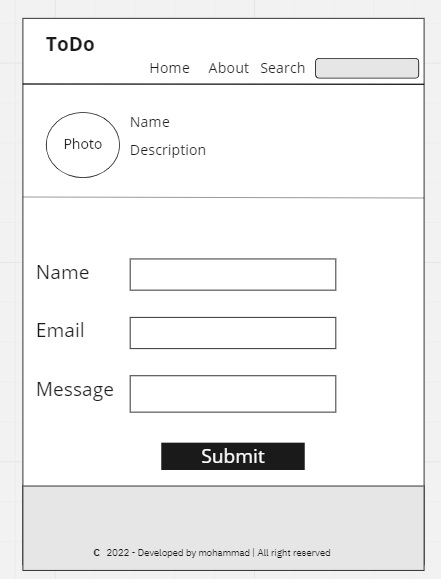
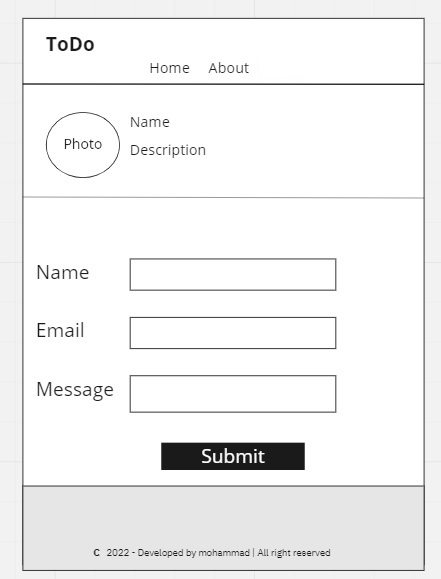
Add css files

Changed region(s): [[0.5896, 0.0933, 0.9728, 0.1554]]

diff --git a/about.html b/about.html
@@ -5,46 +5,45 @@
         <meta charset="UTF-8">
         <meta http-equiv="X-UA-Compatible" content="IE=edge">
         <meta name="viewport" content="width=device-width, initial-scale=1.0">
+        <link rel="stylesheet" href="style/about.css">
         <title>ToDo</title>
     </head>
 
     <body>
-        <header>
-            <h1>ToDo</h1>
+        <header class="abouth">
+            <img class="icon" src="assets/icon.jpg" alt="ToDo icon">
             <nav>
                 <a href="index.html">Home</a>
                 <a href="about.html">About</a>
-                <form action="">
-                    <label for="">Search</label>
-                    <input type="text" name="" id="">
-                    <input type="button" value="search">
-                </form>
             </nav>
         </header>
-        <main>
-            <img src="https://media.istockphoto.com/vectors/user-profile-icon-vector-avatar-portrait-symbol-flat-shape-person-vector-id1270368615?k=20&m=1270368615&s=170667a&w=0&h=qpvA8Z6L164ZcKfIyOl-E8fKnfmRZ09Tks7WEoiLawA="
-                alt="profile photo" width="50px" height="50px">
-            <h5>Mohammad</h5>
-            <p>I made this website to save all my tasks</p>
-            <br>
-            <form action="">
-                <label for="">Name</label>
-                <input type="text" name="" id="">
-                <br>
-                <br>
-                <label for="">Email</label>
-                <input type="email" name="" id="">
-                <br>
-                <br>
-                <label for="">Message</label>
-                <input type="text" name="" id="">
-                <br>
-                <br>
-                <input type="submit" value="Submit">
-            </form>
+        <main class="aboutm">
+            <div class="profilearea">
+                <img id="profile" src="assets/profile.png" alt="">
+                <div class="info">
+                    <p id="name">Mohammad</p>
+                    <p id="des">I made this website to save all my tasks</p>
+                </div>
+            </div>
+            <div class="contact">
+            <p id="cont">Contact me</p>
+                <form action="" >
+                    <label for="">Name</label>
+                    <input type="text" name="" id="">
+                    
+                    <label for="">Email</label>
+                    <input type="email" name="" id="">
+                    
+                    <label for="">Message</label>
+                    <textarea name="" id="textarea" cols="30" rows="10"></textarea>
+                    <label for=""></label>
+                    <input type="submit" value="Submit">
+                </form>
+            </div>
+            
         </main>
-        <footer>
-            <h6>C 2022 - Developed by mohammad | All right reserved</h6>
+        <footer class="aboutf">
+            <p>&copy; 2022 - Developed by mohammad | All right reserved</p>
         </footer>
     </body>
 

diff --git a/style/about.css b/style/about.css
@@ -1,0 +1,104 @@
+@import url('https://fonts.googleapis.com/css2?family=Roboto&display=swap');
+@import url('https://fonts.googleapis.com/css2?family=Roboto+Condensed:wght@300&display=swap');
+
+body{
+    margin: 0px;
+    font-family: 'Roboto', sans-serif;
+}
+.abouth{
+    display: flex;
+    align-items: center;
+    height: 80px;
+    background-color:#323232;
+    justify-content:left;
+}
+.abouth nav a{
+    text-transform: uppercase;
+    font-size: 15px;
+    padding:80px;
+    color: #fff;
+    text-decoration:none;
+}
+.icon{
+    height: 40px;
+    padding: 50px;
+}
+.abouth nav a:hover{
+    color: #323232;
+    background-color: #fff;
+}
+#profile{
+    width: 200px;
+    margin: auto;
+}
+.info {
+    text-align: center;
+}
+.profilearea{
+    display: grid;
+    grid-template-columns: 1fr 80%;
+    padding-top: 50px;
+    gap: 20px;
+}
+.info #name{
+    font-size: 30px;
+    color: red;
+    
+}
+.info #des{
+    border: 1px solid black;
+    padding: 50px;
+    margin: 50px;
+    font-size: 20px;
+    font-weight: bold;
+}
+
+#cont{
+    text-align: center;
+    font-size: 30px;
+    color: red;
+}
+.contact form {
+    display: grid;
+    grid-template-columns: 1fr 80%;
+    margin-left: 20%;
+    margin-right: 20%;
+    padding-bottom: 50px;
+    font-family: 'Roboto Condensed', sans-serif;
+}
+.contact form input {
+  padding: 20px;
+  margin: 20px;
+  font-size: 15px;
+}
+#textarea{
+    padding: 20px;
+    margin: 20px;
+}
+.contact form label{
+    text-align: center;
+    margin: auto;
+    font-weight: bold;
+    font-size: 20px;
+}
+.contact form input[type=submit]{
+   width: 50%;
+   margin: auto;
+   margin-top: 20px;
+   border: none;
+   background-color: #04AA6D; /* Green */
+  border-radius: 8px;
+  color: #fff;
+}
+.contact form input[type=submit]:hover{
+    color:#04AA6D ;
+    background-color: #000;
+   
+}
+.aboutf{
+    height: 70px;
+    text-align: center;
+    padding-top: 25px;
+    background-color:#323232;
+    color: #fff;
+}

diff --git a/index.html b/index.html
@@ -4,23 +4,19 @@
     <meta charset="UTF-8">
     <meta http-equiv="X-UA-Compatible" content="IE=edge">
     <meta name="viewport" content="width=device-width, initial-scale=1.0">
+    <link rel="stylesheet" href="style/index.css">
     <title>ToDO</title>
 </head>
-<body>
-    <header>
-        <h1>ToDo</h1>
+<body class="indexb">
+    <header class="indexh">
+        <img class="icon" src="assets/icon.jpg" alt="ToDo icon">
         <nav>
             <a href="index.html">Home</a>
             <a href="about.html">About</a>
-            <form action="">
-                <label for="">Search</label>
-                <input type="text" name="" id="">
-                <input type="button" value="search">
-            </form>
         </nav>
     </header>
-    <main>
-        <table border="1">
+    <main class="indexm">
+        <table class="ToDoTabl">
             <caption>My ToDo List</caption>
             <tr>
                <th>Tasks</th> 
@@ -28,24 +24,24 @@
             </tr>
             <tr>
                 <td>Play sport</td>
-                <td>Done</td>
+                <td style="color: green;">Done</td>
             </tr>
             <tr>
                 <td>Change oil car</td>
-                <td>Not done</td>
+                <td style="color: red;">Not done</td>
             </tr>
             <tr>
                 <td>Do homework</td>
-                <td>Done</td>
+                <td style="color: green;">Done</td>
             </tr>
             <tr>
                 <td>Shopping</td>
-                <td>Done</td>
+                <td style="color: red;">Not Done</td>
             </tr>
         </table>
     </main>
-    <footer>
-        <h6>C   2022 - Developed by mohammad | All right reserved</h6>
+    <footer class="indexf">
+        <p> &copy 2022 - Developed by mohammad | All right reserved</p>
     </footer>
 </body>
 </html>

diff --git a/style/index.css b/style/index.css
@@ -1,0 +1,70 @@
+@import url('https://fonts.googleapis.com/css2?family=Roboto&display=swap');
+@import url('https://fonts.googleapis.com/css2?family=Roboto+Condensed:wght@300&display=swap');
+
+.indexb{
+    margin: 0px;
+    font-family: 'Roboto', sans-serif;
+    
+}
+.indexh{
+    display: flex;
+    align-items: center;
+    height: 80px;
+    background-color:#323232;
+    justify-content:left;
+}
+.indexh nav a{
+    text-transform: uppercase;
+    font-size: 15px;
+    padding:80px;
+    color: #fff;
+    text-decoration:none;
+}
+.icon{
+    height: 40px;
+    padding: 50px;
+}
+.indexh nav a:hover{
+    color: #323232;
+    background-color: #fff;
+}
+.indexm{
+    display: grid;
+    align-items: center;
+    padding-top: 50px;
+    padding-bottom: 50px;
+}
+.ToDoTabl{
+    margin-left: auto; 
+    margin-right: auto;
+    width:50%;
+    
+}
+.indexm table caption{
+    font-weight: bold;
+    font-size: 40px;
+    padding-bottom: 80px;
+}
+.ToDoTabl ,th ,td{
+    font-family: 'Roboto Condensed', sans-serif;
+    border: 1px solid black;
+    border-collapse: collapse;
+    font-size: 20px;
+    text-align: center;
+}
+.ToDoTabl td:hover{
+background-color: #323232;
+}
+.ToDoTabl,th{
+    padding: 15px;
+}
+.ToDoTabl,td{
+    padding: 10px;
+}
+.indexf{
+    height: 70px;
+    text-align: center;
+    padding-top: 25px;
+    background-color:#323232;
+    color: #fff;
+}
